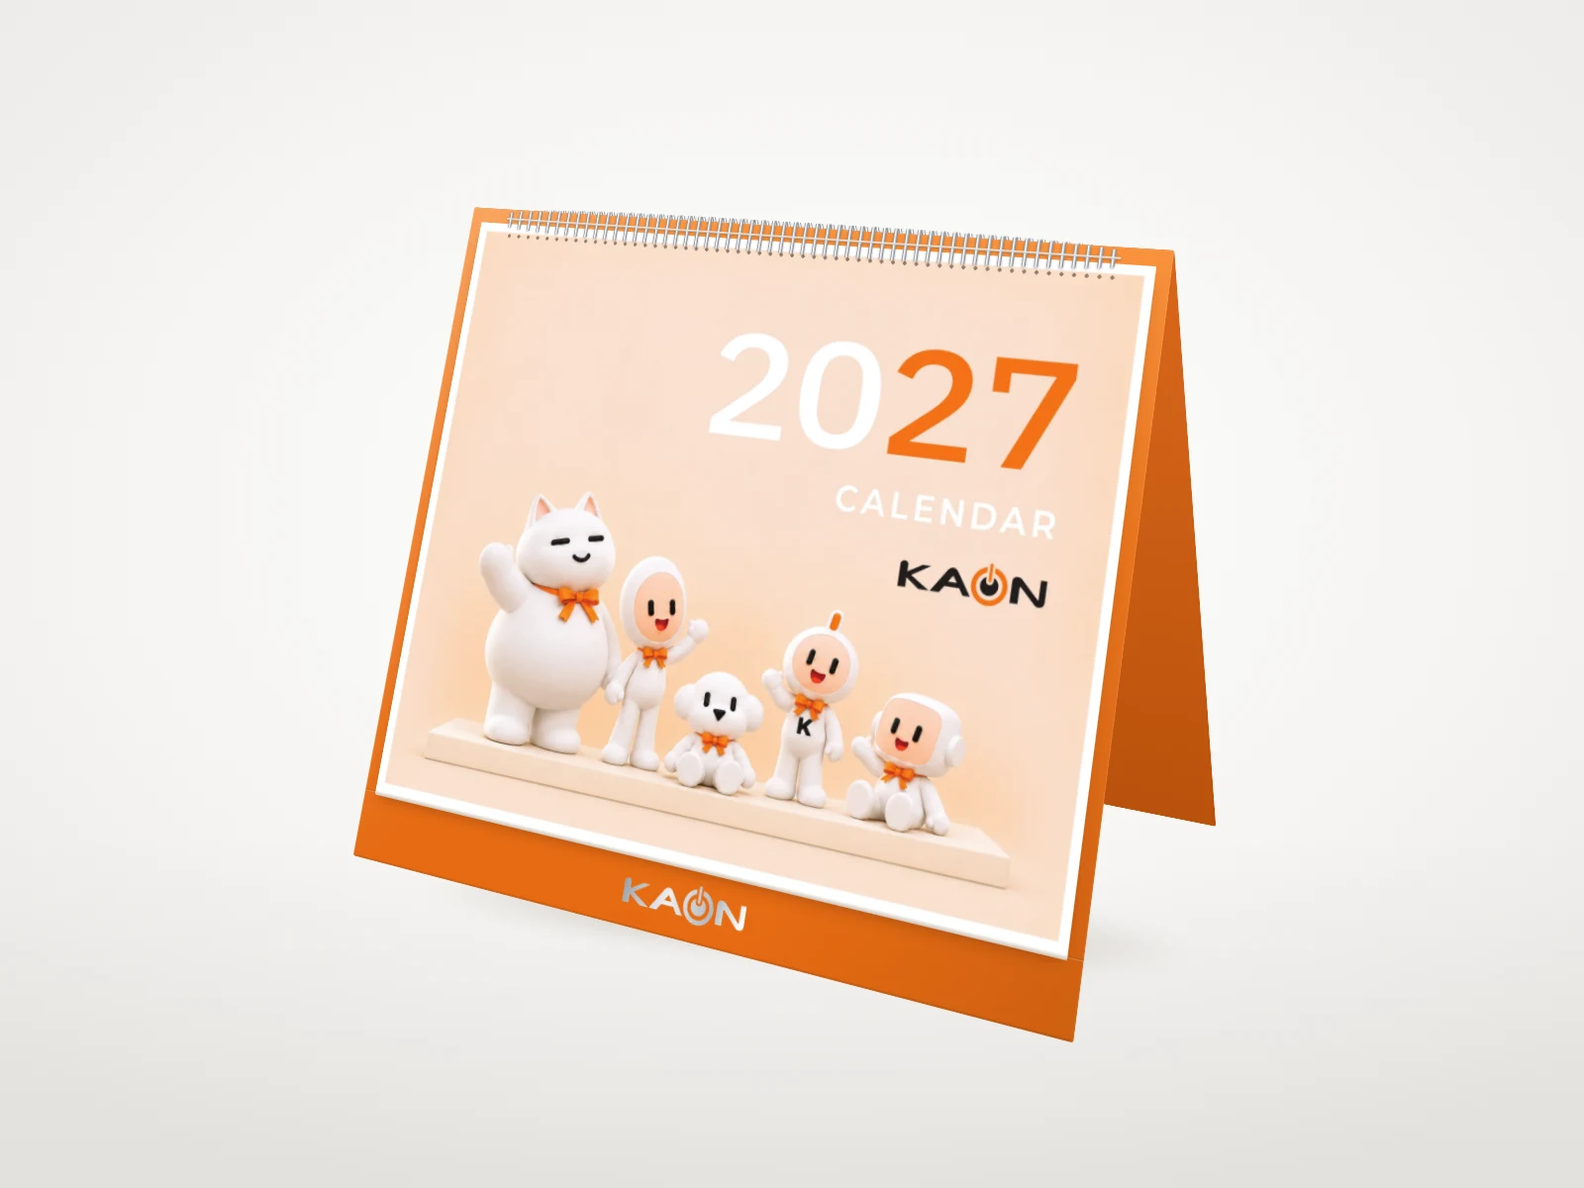
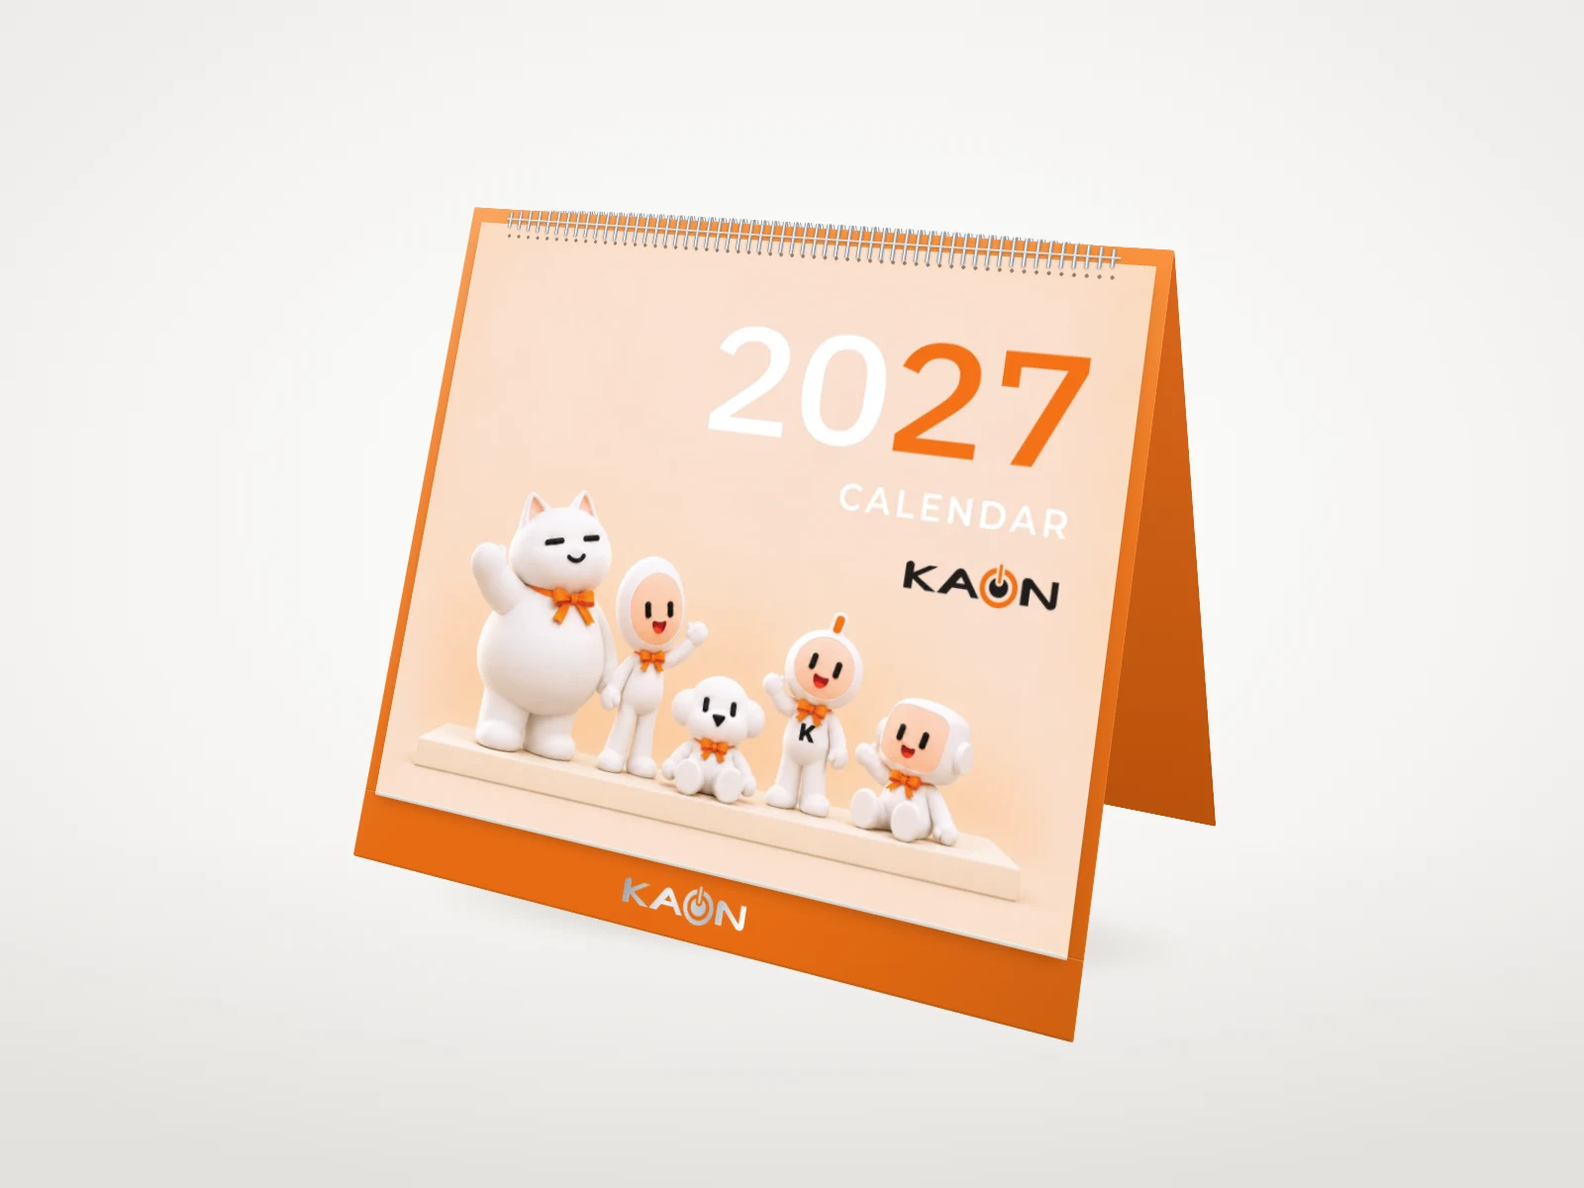
Use borderless cover art on calendar mockup and thumbnail
Claude-Session: https://claude.ai/code/session_01BFCG5mZW9hgWuvcjPHNUrC

diff --git a/index.html b/index.html
@@ -3076,7 +3076,7 @@ footer .c{padding-block:56px calc(40px + env(safe-area-inset-bottom,0px));displa
     <div class="cl-stage" id="cl-stage">
       <div class="dkc" id="cl-dk" role="group" aria-roledescription="탁상 캘린더 목업" aria-label="2027 캘린더 목업">
         <div class="dk-body">
-          <div class="dk-face fr"><span class="dk-inner" aria-hidden="true"></span><span class="dk-hb" aria-hidden="true"></span><div class="dk-sheet"><img class="pg" src="assets/calendar/cover.webp" alt="2027 캘린더 표지 — 가온프렌즈 피규어"><div class="flw" hidden aria-hidden="true"><img class="fl" alt=""><span class="flb"></span></div><span class="shade"></span><span class="dk-wire"></span></div><span class="dk-lip" aria-hidden="true"><span class="dk-foil"></span></span></div>
+          <div class="dk-face fr"><span class="dk-inner" aria-hidden="true"></span><span class="dk-hb" aria-hidden="true"></span><div class="dk-sheet"><img class="pg" src="assets/calendar/cover-art.webp" alt="2027 캘린더 표지 — 가온프렌즈 피규어"><div class="flw" hidden aria-hidden="true"><img class="fl" alt=""><span class="flb"></span></div><span class="shade"></span><span class="dk-wire"></span></div><span class="dk-lip" aria-hidden="true"><span class="dk-foil"></span></span></div>
           <div class="dk-face bk"><span class="dk-inner" aria-hidden="true"></span><span class="dk-hb" aria-hidden="true"></span><div class="dk-sheet"><img class="pg" src="assets/calendar/year27.webp" alt="2027 연간 달력 면"><div class="flw" hidden aria-hidden="true"><img class="fl" alt=""><span class="flb"></span></div><span class="shade"></span><span class="dk-wire"></span></div><span class="dk-lip" aria-hidden="true"><span class="dk-foil"></span></span></div>
           <div class="dk-floor" aria-hidden="true"></div>
         </div>
@@ -3300,7 +3300,7 @@ const WORKS=[
    ch:'그룹 5대 사업군(Set-top Box·Broadband CPE·Metaverse/AR Glass·Solution·Robot)을 상징하는 캐릭터 IP를 만드는 과제였어요.',
    ap:'사업 특성을 반영한 네이밍과 성격·관계, 캐릭터별 스토리까지 세계관 전체를 설계했어요. 동작 표현이 쉬운 인간형 3종과 무형 사업의 상징성을 살린 비인간형 2종으로 조형 체계를 나누고, 기업 컬러(오렌지) 기반 컬러 시스템, 감정·상태를 보여주는 시그널 장치, 신장·체중 등 캐릭터 스펙을 정의했어요.',
    out:'캐릭터 5종 전체를 저작권 등록(2022.11)해 법적 보호가 가능한 그룹 IP로 전환했어요. 가이드라인(11p), 아크릴 등신대·스티커·키캡·마우스패드 굿즈, 신규 입사자 웰컴 키트까지 만들었고, 2026년에는 솔루·로비 조형을 리뉴얼해 표현 범위를 넓혔어요.'},
-  {title:'KAON Friends 2027 Calendar', page:'calendar', img:'assets/calendar/thumb.webp?v=4', sub:'KAON GROUP', tag:'AI Artwork · Calendar', period:'2026', cat:['ai','brand','content'], scene:3,
+  {title:'KAON Friends 2027 Calendar', page:'calendar', img:'assets/calendar/thumb.webp?v=5', sub:'KAON GROUP', tag:'AI Artwork · Calendar', period:'2026', cat:['ai','brand','content'], scene:3,
    kr:'가온프렌즈를 주인공으로 생성형 AI로 그린 2027 탁상 캘린더', role:'기획·AI 아트워크·편집디자인', client:'가온그룹', tools:'Generative AI, Photoshop, Illustrator',
    kpis:[['500부','제작·배포'],['3주','제작 기간 · 2024 대비 절반 이상 단축'],['18점','월별 14 · 상태 카드 4']], ch:'', ap:'', out:''},
   {title:'Group Brand & Exhibitions', sub:'KAON GROUP', tag:'Brand · Exhibition', period:'2021 — 현재', cat:['brand'], scene:4,
@@ -3894,7 +3894,7 @@ addEventListener('keydown',e=>{ if(lb.hidden) return; if(e.key==='Escape'){e.sto
 
 /* ---------- KAON Friends 2027 Calendar ---------- */
 (()=>{ const pg=document.getElementById('pg-calendar'); if(!pg) return;
-  const E=[{"k": "a0", "src": "assets/calendar/a01.webp", "alt": "2026년 12월 — 크리스마스 준비", "cap": "2026.12 — 크리스마스 준비 · Christmas Eve", "g": "cal"}, {"k": "a1", "src": "assets/calendar/a02.webp", "alt": "2027년 1월 — 새해 일출", "cap": "2027.01 — 새해 일출 · 신정 · New Year", "g": "cal"}, {"k": "a2", "src": "assets/calendar/a03.webp", "alt": "2027년 2월 — 설날", "cap": "2027.02 — 설날 · 설 연휴 · Seollal", "g": "cal"}, {"k": "a3", "src": "assets/calendar/a04.webp", "alt": "2027년 3월 — 봄 피크닉", "cap": "2027.03 — 봄 피크닉 · 삼일절 · 새 학기", "g": "cal"}, {"k": "a4", "src": "assets/calendar/a05.webp", "alt": "2027년 4월 — 벚꽃 산책", "cap": "2027.04 — 벚꽃 산책 · Cherry Blossom", "g": "cal"}, {"k": "a5", "src": "assets/calendar/a06.webp", "alt": "2027년 5월 — 놀이공원 나들이", "cap": "2027.05 — 놀이공원 나들이 · 어린이날 · 가정의 달", "g": "cal"}, {"k": "a6", "src": "assets/calendar/a07.webp", "alt": "2027년 6월 — 호숫가 플로깅", "cap": "2027.06 — 호숫가 플로깅 · 환경의 날 · 초여름", "g": "cal"}, {"k": "a7", "src": "assets/calendar/a08.webp", "alt": "2027년 7월 — 장마", "cap": "2027.07 — 장마 · Rainy Season", "g": "cal"}, {"k": "a8", "src": "assets/calendar/a09.webp", "alt": "2027년 8월 — 여름휴가", "cap": "2027.08 — 여름휴가 · 광복절 · Summer Vacation", "g": "cal"}, {"k": "a9", "src": "assets/calendar/a10.webp", "alt": "2027년 9월 — 추석", "cap": "2027.09 — 추석 · 한가위 · Chuseok", "g": "cal"}, {"k": "a10", "src": "assets/calendar/a11.webp", "alt": "2027년 10월 — 단풍 하이킹", "cap": "2027.10 — 단풍 하이킹 · 개천절 · 한글날", "g": "cal"}, {"k": "a11", "src": "assets/calendar/a12.webp", "alt": "2027년 11월 — 독서의 계절", "cap": "2027.11 — 독서의 계절 · Late Autumn", "g": "cal"}, {"k": "a12", "src": "assets/calendar/a13.webp", "alt": "2027년 12월 — 연말 파티", "cap": "2027.12 — 연말 파티 · 크리스마스 · 송년", "g": "cal"}, {"k": "a13", "src": "assets/calendar/a14.webp", "alt": "2028년 1월 — 눈사람 만들기", "cap": "2028.01 — 눈사람 만들기 · 신정 · Snow Day", "g": "cal"}, {"k": "c0", "src": "assets/calendar/cover-art.webp", "alt": "2027 캘린더 표지", "cap": "Cover — 2027 KAON Friends Calendar", "g": "calp"}, {"k": "c1", "src": "assets/calendar/year27.webp", "alt": "2027 연간 달력", "cap": "2027 — Beyond connection, we create what truly matters.", "g": "calp"}, {"k": "c2", "src": "assets/calendar/year28.webp", "alt": "2028 연간 달력", "cap": "2028 — CONNECTED +", "g": "calp"}, {"k": "b1", "src": "assets/calendar/b01.webp", "alt": "플래너 면 2026년 12월", "cap": "Planner — 2026.12", "g": "calp"}, {"k": "b2", "src": "assets/calendar/b02.webp", "alt": "플래너 면 2027년 1월", "cap": "Planner — 2027.01", "g": "calp"}, {"k": "b3", "src": "assets/calendar/b03.webp", "alt": "플래너 면 2027년 2월", "cap": "Planner — 2027.02", "g": "calp"}, {"k": "b4", "src": "assets/calendar/b04.webp", "alt": "플래너 면 2027년 3월", "cap": "Planner — 2027.03", "g": "calp"}, {"k": "b5", "src": "assets/calendar/b05.webp", "alt": "플래너 면 2027년 4월", "cap": "Planner — 2027.04", "g": "calp"}, {"k": "b6", "src": "assets/calendar/b06.webp", "alt": "플래너 면 2027년 5월", "cap": "Planner — 2027.05", "g": "calp"}, {"k": "b7", "src": "assets/calendar/b07.webp", "alt": "플래너 면 2027년 6월", "cap": "Planner — 2027.06", "g": "calp"}, {"k": "b8", "src": "assets/calendar/b08.webp", "alt": "플래너 면 2027년 7월", "cap": "Planner — 2027.07", "g": "calp"}, {"k": "b9", "src": "assets/calendar/b09.webp", "alt": "플래너 면 2027년 8월", "cap": "Planner — 2027.08", "g": "calp"}, {"k": "b10", "src": "assets/calendar/b10.webp", "alt": "플래너 면 2027년 9월", "cap": "Planner — 2027.09", "g": "calp"}, {"k": "b11", "src": "assets/calendar/b11.webp", "alt": "플래너 면 2027년 10월", "cap": "Planner — 2027.10", "g": "calp"}, {"k": "b12", "src": "assets/calendar/b12.webp", "alt": "플래너 면 2027년 11월", "cap": "Planner — 2027.11", "g": "calp"}, {"k": "b13", "src": "assets/calendar/b13.webp", "alt": "플래너 면 2027년 12월", "cap": "Planner — 2027.12", "g": "calp"}, {"k": "b14", "src": "assets/calendar/b14.webp", "alt": "플래너 면 2028년 1월", "cap": "Planner — 2028.01", "g": "calp"}, {"k": "b15", "src": "assets/calendar/b15.webp", "alt": "플래너 면 2028년 2월", "cap": "Planner — 2028.02", "g": "calp"}, {"k": "s1", "src": "assets/calendar/s1.webp", "alt": "상태 카드 휴가 중", "cap": "Desk Signal — 휴가 중 · On Vacation", "g": "cals"}, {"k": "s2", "src": "assets/calendar/s2.webp", "alt": "상태 카드 외근 중", "cap": "Desk Signal — 외근 중 · Out of Office", "g": "cals"}, {"k": "s3", "src": "assets/calendar/s3.webp", "alt": "상태 카드 회의 중", "cap": "Desk Signal — 회의 중 · In a Meeting", "g": "cals"}, {"k": "s4", "src": "assets/calendar/s4.webp", "alt": "상태 카드 출장 중", "cap": "Desk Signal — 출장 중 · Business Trip", "g": "cals"}], ST=[{"f": "assets/calendar/cover.webp", "b": "assets/calendar/year27.webp", "n": "2027", "ab": "COVER", "t": "KAON Friends Calendar", "h": "Beyond connection", "d": "가온프렌즈와 함께하는 2027년. 표지부터 한 장씩 넘겨 보세요."}, {"f": "assets/calendar/f01.webp", "b": "assets/calendar/b01.webp", "n": "12", "ab": "DEC 2026", "t": "크리스마스 준비", "h": "Christmas Eve", "d": "통창 너머 눈 덮인 산을 배경으로 다 함께 트리를 꾸미며 한 해의 마지막 달을 열어요."}, {"f": "assets/calendar/f02.webp", "b": "assets/calendar/b02.webp", "n": "01", "ab": "JAN 2027", "t": "새해 일출", "h": "신정 · New Year", "d": "눈 덮인 산 정상에서 첫 해돋이를 맞으며 새해 다짐을 나눠요."}, {"f": "assets/calendar/f03.webp", "b": "assets/calendar/b03.webp", "n": "02", "ab": "FEB 2027", "t": "설날", "h": "설 연휴 · Seollal", "d": "한복을 차려입고 다과상에 둘러앉아 명절의 정을 나눠요."}, {"f": "assets/calendar/f04.webp", "b": "assets/calendar/b04.webp", "n": "03", "ab": "MAR 2027", "t": "봄 피크닉", "h": "삼일절 · 새 학기", "d": "호숫가 잔디밭에 돗자리를 펴고 봄의 시작을 맞아요."}, {"f": "assets/calendar/f05.webp", "b": "assets/calendar/b05.webp", "n": "04", "ab": "APR 2027", "t": "벚꽃 산책", "h": "Cherry Blossom", "d": "흩날리는 벚꽃길을 걸으며 서로의 사진을 찍어 줘요."}, {"f": "assets/calendar/f06.webp", "b": "assets/calendar/b06.webp", "n": "05", "ab": "MAY 2027", "t": "놀이공원 나들이", "h": "어린이날 · 가정의 달", "d": "풍선과 회전목마가 있는 놀이공원에서 어린이날을 보내요."}, {"f": "assets/calendar/f07.webp", "b": "assets/calendar/b07.webp", "n": "06", "ab": "JUN 2027", "t": "호숫가 플로깅", "h": "환경의 날 · 초여름", "d": "초여름 호숫가 산책로에서 쓰레기를 주우며 환경을 지켜요."}, {"f": "assets/calendar/f08.webp", "b": "assets/calendar/b08.webp", "n": "07", "ab": "JUL 2027", "t": "장마", "h": "Rainy Season", "d": "수국이 핀 빗길을 커다란 우산 하나로 함께 걸어요."}, {"f": "assets/calendar/f09.webp", "b": "assets/calendar/b09.webp", "n": "08", "ab": "AUG 2027", "t": "여름휴가", "h": "광복절 · Summer Vacation", "d": "해변 선베드에서 쉬고 모래성을 쌓으며 여름휴가를 즐겨요."}, {"f": "assets/calendar/f10.webp", "b": "assets/calendar/b10.webp", "n": "09", "ab": "SEP 2027", "t": "추석", "h": "한가위 · Chuseok", "d": "보름달 아래 한옥 마루에서 송편과 다과를 나눠요."}, {"f": "assets/calendar/f11.webp", "b": "assets/calendar/b11.webp", "n": "10", "ab": "OCT 2027", "t": "단풍 하이킹", "h": "개천절 · 한글날", "d": "붉게 물든 돌담길을 배낭 메고 걸으며 가을을 만끽해요."}, {"f": "assets/calendar/f12.webp", "b": "assets/calendar/b12.webp", "n": "11", "ab": "NOV 2027", "t": "독서의 계절", "h": "Late Autumn", "d": "창가 서재에서 책과 따뜻한 차로 늦가을 오후를 보내요."}, {"f": "assets/calendar/f13.webp", "b": "assets/calendar/b13.webp", "n": "12", "ab": "DEC 2027", "t": "연말 파티", "h": "크리스마스 · 송년", "d": "한 해의 사진을 걸고 선물을 포장하며 연말을 함께 정리해요."}, {"f": "assets/calendar/f14.webp", "b": "assets/calendar/b14.webp", "n": "01", "ab": "JAN 2028", "t": "눈사람 만들기", "h": "신정 · Snow Day", "d": "눈 내린 들판에서 목도리를 두른 눈사람을 함께 만들어요."}];
+  const E=[{"k": "a0", "src": "assets/calendar/a01.webp", "alt": "2026년 12월 — 크리스마스 준비", "cap": "2026.12 — 크리스마스 준비 · Christmas Eve", "g": "cal"}, {"k": "a1", "src": "assets/calendar/a02.webp", "alt": "2027년 1월 — 새해 일출", "cap": "2027.01 — 새해 일출 · 신정 · New Year", "g": "cal"}, {"k": "a2", "src": "assets/calendar/a03.webp", "alt": "2027년 2월 — 설날", "cap": "2027.02 — 설날 · 설 연휴 · Seollal", "g": "cal"}, {"k": "a3", "src": "assets/calendar/a04.webp", "alt": "2027년 3월 — 봄 피크닉", "cap": "2027.03 — 봄 피크닉 · 삼일절 · 새 학기", "g": "cal"}, {"k": "a4", "src": "assets/calendar/a05.webp", "alt": "2027년 4월 — 벚꽃 산책", "cap": "2027.04 — 벚꽃 산책 · Cherry Blossom", "g": "cal"}, {"k": "a5", "src": "assets/calendar/a06.webp", "alt": "2027년 5월 — 놀이공원 나들이", "cap": "2027.05 — 놀이공원 나들이 · 어린이날 · 가정의 달", "g": "cal"}, {"k": "a6", "src": "assets/calendar/a07.webp", "alt": "2027년 6월 — 호숫가 플로깅", "cap": "2027.06 — 호숫가 플로깅 · 환경의 날 · 초여름", "g": "cal"}, {"k": "a7", "src": "assets/calendar/a08.webp", "alt": "2027년 7월 — 장마", "cap": "2027.07 — 장마 · Rainy Season", "g": "cal"}, {"k": "a8", "src": "assets/calendar/a09.webp", "alt": "2027년 8월 — 여름휴가", "cap": "2027.08 — 여름휴가 · 광복절 · Summer Vacation", "g": "cal"}, {"k": "a9", "src": "assets/calendar/a10.webp", "alt": "2027년 9월 — 추석", "cap": "2027.09 — 추석 · 한가위 · Chuseok", "g": "cal"}, {"k": "a10", "src": "assets/calendar/a11.webp", "alt": "2027년 10월 — 단풍 하이킹", "cap": "2027.10 — 단풍 하이킹 · 개천절 · 한글날", "g": "cal"}, {"k": "a11", "src": "assets/calendar/a12.webp", "alt": "2027년 11월 — 독서의 계절", "cap": "2027.11 — 독서의 계절 · Late Autumn", "g": "cal"}, {"k": "a12", "src": "assets/calendar/a13.webp", "alt": "2027년 12월 — 연말 파티", "cap": "2027.12 — 연말 파티 · 크리스마스 · 송년", "g": "cal"}, {"k": "a13", "src": "assets/calendar/a14.webp", "alt": "2028년 1월 — 눈사람 만들기", "cap": "2028.01 — 눈사람 만들기 · 신정 · Snow Day", "g": "cal"}, {"k": "c0", "src": "assets/calendar/cover-art.webp", "alt": "2027 캘린더 표지", "cap": "Cover — 2027 KAON Friends Calendar", "g": "calp"}, {"k": "c1", "src": "assets/calendar/year27.webp", "alt": "2027 연간 달력", "cap": "2027 — Beyond connection, we create what truly matters.", "g": "calp"}, {"k": "c2", "src": "assets/calendar/year28.webp", "alt": "2028 연간 달력", "cap": "2028 — CONNECTED +", "g": "calp"}, {"k": "b1", "src": "assets/calendar/b01.webp", "alt": "플래너 면 2026년 12월", "cap": "Planner — 2026.12", "g": "calp"}, {"k": "b2", "src": "assets/calendar/b02.webp", "alt": "플래너 면 2027년 1월", "cap": "Planner — 2027.01", "g": "calp"}, {"k": "b3", "src": "assets/calendar/b03.webp", "alt": "플래너 면 2027년 2월", "cap": "Planner — 2027.02", "g": "calp"}, {"k": "b4", "src": "assets/calendar/b04.webp", "alt": "플래너 면 2027년 3월", "cap": "Planner — 2027.03", "g": "calp"}, {"k": "b5", "src": "assets/calendar/b05.webp", "alt": "플래너 면 2027년 4월", "cap": "Planner — 2027.04", "g": "calp"}, {"k": "b6", "src": "assets/calendar/b06.webp", "alt": "플래너 면 2027년 5월", "cap": "Planner — 2027.05", "g": "calp"}, {"k": "b7", "src": "assets/calendar/b07.webp", "alt": "플래너 면 2027년 6월", "cap": "Planner — 2027.06", "g": "calp"}, {"k": "b8", "src": "assets/calendar/b08.webp", "alt": "플래너 면 2027년 7월", "cap": "Planner — 2027.07", "g": "calp"}, {"k": "b9", "src": "assets/calendar/b09.webp", "alt": "플래너 면 2027년 8월", "cap": "Planner — 2027.08", "g": "calp"}, {"k": "b10", "src": "assets/calendar/b10.webp", "alt": "플래너 면 2027년 9월", "cap": "Planner — 2027.09", "g": "calp"}, {"k": "b11", "src": "assets/calendar/b11.webp", "alt": "플래너 면 2027년 10월", "cap": "Planner — 2027.10", "g": "calp"}, {"k": "b12", "src": "assets/calendar/b12.webp", "alt": "플래너 면 2027년 11월", "cap": "Planner — 2027.11", "g": "calp"}, {"k": "b13", "src": "assets/calendar/b13.webp", "alt": "플래너 면 2027년 12월", "cap": "Planner — 2027.12", "g": "calp"}, {"k": "b14", "src": "assets/calendar/b14.webp", "alt": "플래너 면 2028년 1월", "cap": "Planner — 2028.01", "g": "calp"}, {"k": "b15", "src": "assets/calendar/b15.webp", "alt": "플래너 면 2028년 2월", "cap": "Planner — 2028.02", "g": "calp"}, {"k": "s1", "src": "assets/calendar/s1.webp", "alt": "상태 카드 휴가 중", "cap": "Desk Signal — 휴가 중 · On Vacation", "g": "cals"}, {"k": "s2", "src": "assets/calendar/s2.webp", "alt": "상태 카드 외근 중", "cap": "Desk Signal — 외근 중 · Out of Office", "g": "cals"}, {"k": "s3", "src": "assets/calendar/s3.webp", "alt": "상태 카드 회의 중", "cap": "Desk Signal — 회의 중 · In a Meeting", "g": "cals"}, {"k": "s4", "src": "assets/calendar/s4.webp", "alt": "상태 카드 출장 중", "cap": "Desk Signal — 출장 중 · Business Trip", "g": "cals"}], ST=[{"f": "assets/calendar/cover-art.webp", "b": "assets/calendar/year27.webp", "n": "2027", "ab": "COVER", "t": "KAON Friends Calendar", "h": "Beyond connection", "d": "가온프렌즈와 함께하는 2027년. 표지부터 한 장씩 넘겨 보세요."}, {"f": "assets/calendar/f01.webp", "b": "assets/calendar/b01.webp", "n": "12", "ab": "DEC 2026", "t": "크리스마스 준비", "h": "Christmas Eve", "d": "통창 너머 눈 덮인 산을 배경으로 다 함께 트리를 꾸미며 한 해의 마지막 달을 열어요."}, {"f": "assets/calendar/f02.webp", "b": "assets/calendar/b02.webp", "n": "01", "ab": "JAN 2027", "t": "새해 일출", "h": "신정 · New Year", "d": "눈 덮인 산 정상에서 첫 해돋이를 맞으며 새해 다짐을 나눠요."}, {"f": "assets/calendar/f03.webp", "b": "assets/calendar/b03.webp", "n": "02", "ab": "FEB 2027", "t": "설날", "h": "설 연휴 · Seollal", "d": "한복을 차려입고 다과상에 둘러앉아 명절의 정을 나눠요."}, {"f": "assets/calendar/f04.webp", "b": "assets/calendar/b04.webp", "n": "03", "ab": "MAR 2027", "t": "봄 피크닉", "h": "삼일절 · 새 학기", "d": "호숫가 잔디밭에 돗자리를 펴고 봄의 시작을 맞아요."}, {"f": "assets/calendar/f05.webp", "b": "assets/calendar/b05.webp", "n": "04", "ab": "APR 2027", "t": "벚꽃 산책", "h": "Cherry Blossom", "d": "흩날리는 벚꽃길을 걸으며 서로의 사진을 찍어 줘요."}, {"f": "assets/calendar/f06.webp", "b": "assets/calendar/b06.webp", "n": "05", "ab": "MAY 2027", "t": "놀이공원 나들이", "h": "어린이날 · 가정의 달", "d": "풍선과 회전목마가 있는 놀이공원에서 어린이날을 보내요."}, {"f": "assets/calendar/f07.webp", "b": "assets/calendar/b07.webp", "n": "06", "ab": "JUN 2027", "t": "호숫가 플로깅", "h": "환경의 날 · 초여름", "d": "초여름 호숫가 산책로에서 쓰레기를 주우며 환경을 지켜요."}, {"f": "assets/calendar/f08.webp", "b": "assets/calendar/b08.webp", "n": "07", "ab": "JUL 2027", "t": "장마", "h": "Rainy Season", "d": "수국이 핀 빗길을 커다란 우산 하나로 함께 걸어요."}, {"f": "assets/calendar/f09.webp", "b": "assets/calendar/b09.webp", "n": "08", "ab": "AUG 2027", "t": "여름휴가", "h": "광복절 · Summer Vacation", "d": "해변 선베드에서 쉬고 모래성을 쌓으며 여름휴가를 즐겨요."}, {"f": "assets/calendar/f10.webp", "b": "assets/calendar/b10.webp", "n": "09", "ab": "SEP 2027", "t": "추석", "h": "한가위 · Chuseok", "d": "보름달 아래 한옥 마루에서 송편과 다과를 나눠요."}, {"f": "assets/calendar/f11.webp", "b": "assets/calendar/b11.webp", "n": "10", "ab": "OCT 2027", "t": "단풍 하이킹", "h": "개천절 · 한글날", "d": "붉게 물든 돌담길을 배낭 메고 걸으며 가을을 만끽해요."}, {"f": "assets/calendar/f12.webp", "b": "assets/calendar/b12.webp", "n": "11", "ab": "NOV 2027", "t": "독서의 계절", "h": "Late Autumn", "d": "창가 서재에서 책과 따뜻한 차로 늦가을 오후를 보내요."}, {"f": "assets/calendar/f13.webp", "b": "assets/calendar/b13.webp", "n": "12", "ab": "DEC 2027", "t": "연말 파티", "h": "크리스마스 · 송년", "d": "한 해의 사진을 걸고 선물을 포장하며 연말을 함께 정리해요."}, {"f": "assets/calendar/f14.webp", "b": "assets/calendar/b14.webp", "n": "01", "ab": "JAN 2028", "t": "눈사람 만들기", "h": "신정 · Snow Day", "d": "눈 내린 들판에서 목도리를 두른 눈사람을 함께 만들어요."}];
   const base=LB.length; E.forEach(e=>LB.push({src:e.src,alt:e.alt,cap:e.cap,g:e.g}));
   pg.querySelectorAll('[data-cl-lb]').forEach(b=>b.addEventListener('click',()=>{ const k=E.findIndex(e=>e.k===b.dataset.clLb); if(k>=0) lbOpen(base+k); }));
   const dk=document.getElementById('cl-dk'), now=document.getElementById('cl-now'), tl=document.getElementById('cl-tl'), sideB=document.getElementById('cl-side'), playB=document.getElementById('cl-play');
